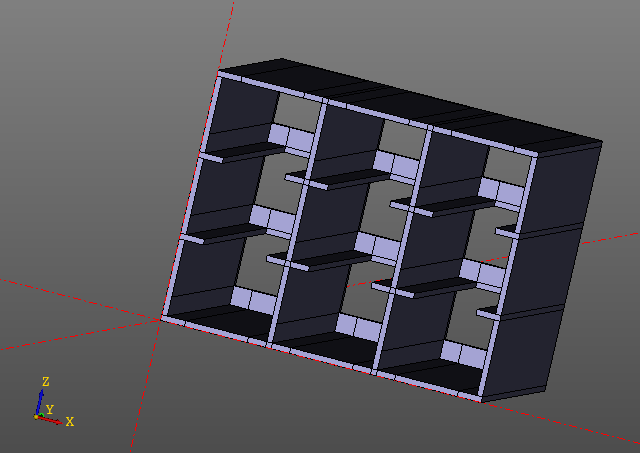
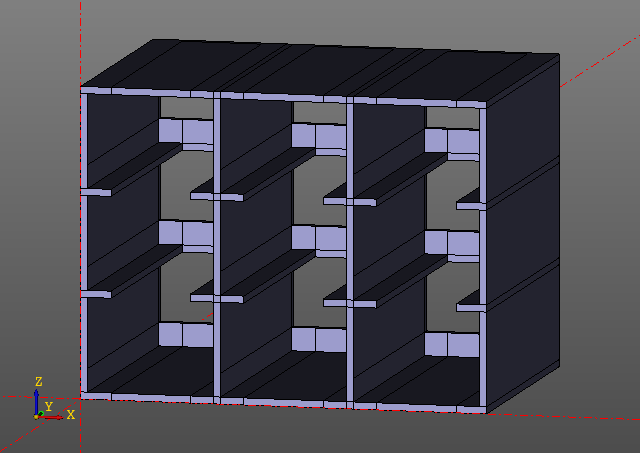
a

diff --git a/docs/_site/texts/prim2d.html b/docs/_site/texts/prim2d.html
@@ -126,7 +126,27 @@
 			
 			<article>
 				<link rel="stylesheet" href="/zencad/css/main.css">
-				<h1 id="section">2д примитивы.</h1>
+				<h1 id="section">2д Примитивы.</h1>
+
+<h2 id="circle">Circle</h2>
+
+<figure class="highlight"><pre><code class="language-python" data-lang="python"><span class="n">circle</span><span class="p">(</span><span class="n">r</span> <span class="o">=</span> <span class="n">radius</span><span class="p">)</span></code></pre></figure>
+
+<p>Example:</p>
+
+<figure class="highlight"><pre><code class="language-python" data-lang="python"><span class="n">zencad</span><span class="o">.</span><span class="n">circle</span><span class="p">(</span><span class="n">r</span> <span class="o">=</span> <span class="mi">10</span><span class="p">)</span></code></pre></figure>
+
+<p><img src="../images/circle.png" alt="box.png" /></p>
+
+<h2 id="ngon">Ngon</h2>
+
+<figure class="highlight"><pre><code class="language-python" data-lang="python"><span class="n">ngon</span><span class="p">(</span><span class="n">r</span> <span class="o">=</span> <span class="n">radius</span><span class="p">,</span> <span class="n">n</span> <span class="o">=</span> <span class="n">nums</span><span class="p">)</span></code></pre></figure>
+
+<p>Example:</p>
+
+<figure class="highlight"><pre><code class="language-python" data-lang="python"><span class="n">zencad</span><span class="o">.</span><span class="n">ngon</span><span class="p">(</span><span class="n">r</span> <span class="o">=</span> <span class="mi">10</span><span class="p">,</span> <span class="n">n</span> <span class="o">=</span> <span class="mi">6</span><span class="p">)</span></code></pre></figure>
+
+<p><img src="../images/ngon.png" alt="box.png" /></p>
 
 			</article>
 			

diff --git a/docs/_site/texts/prim3d.html b/docs/_site/texts/prim3d.html
@@ -126,7 +126,7 @@
 			
 			<article>
 				<link rel="stylesheet" href="/zencad/css/main.css">
-				<h1 id="csg-">CSG Примитивы</h1>
+				<h1 id="d-">3d Примитивы</h1>
 
 <h2 id="box">Box</h2>
 

diff --git a/src/zencad/DisplayWidget.cpp b/src/zencad/DisplayWidget.cpp
@@ -73,7 +73,8 @@ void DisplayWidget::paintEvent(QPaintEvent* e) {
             anAisBox2->SetColor(Quantity_NOC_BLACK);
             anAisBox2->SetDisplayMode(AIS_WireFrame);  
             getContext()->Display(anAisBox2, false);
-            m_view->FitAll (0.5, false);
+
+            autoscale();
         }
 
         getContext()->Display(new AIS_Axis(new Geom_Axis1Placement(gp_Pnt(0,0,0), gp_Vec(1,0,0))));
@@ -82,6 +83,11 @@ void DisplayWidget::paintEvent(QPaintEvent* e) {
     }
 
     m_view->Redraw();
+}
+
+void DisplayWidget::autoscale() {
+    gxx::println("autoscale emitted");
+    m_view->FitAll (0.5, false);
 }
 
 void DisplayWidget::resizeEvent(QResizeEvent* e) {
@@ -205,7 +211,7 @@ void DisplayWidget::onMouseWheel( const int theFlags, const int theDelta, const 
 
 void DisplayWidget::onLButtonDown( const int theFlags, const QPoint thePoint ) {
     Q_UNUSED(theFlags);
-    m_view->StartRotation(thePoint.x(), thePoint.y());
+    m_view->StartRotation(thePoint.x(), thePoint.y(), 1);
     temporary1 = thePoint;
 }
 
@@ -233,8 +239,10 @@ void DisplayWidget::onMouseMove( const int theFlags, const QPoint thePoint ) {
     QPoint mv = thePoint - temporary1; 
     temporary1 = thePoint;
 
+    //m_view->SetAxis(0, 0, 0, 0, 0, 1);
+
     if (theFlags & Qt::LeftButton) {
-        m_view->Rotation(thePoint.x(), thePoint.y());
+    //    m_view->Rotation(thePoint.x(), thePoint.y());
     //    quat_orient.self_small_rotate1(thePoint.x() * 0.0001);
     //    quat_orient.self_small_rotate3(thePoint.y() * 0.0001);
     
@@ -253,15 +261,15 @@ void DisplayWidget::onMouseMove( const int theFlags, const QPoint thePoint ) {
     //Quantity_Parameter Vz;
     //m_view->Proj(Vx,Vy,Vz);
     //gxx::println(quat_orient);
-
+//
     //double mod = sqrt(quat_orient.q1*quat_orient.q1 + quat_orient.q2*quat_orient.q2 + quat_orient.q3*quat_orient.q3);
     //Vx = quat_orient.q1 / mod;
     //Vy = quat_orient.q2 / mod;
     //Vz = quat_orient.q3 / mod;
-
+//
     //malgo::vector3<double> vect = quat_orient * malgo::vector3<double>(0,1,0);
-
-    //m_view->SetProj(cos(psi) * cos(phi), cos(psi) * sin(phi), sin(psi));
+//
+    m_view->SetProj(cos(psi) * cos(phi), cos(psi) * sin(phi), sin(psi));
     //m_view->Proj(Vx,Vy,Vz);
     //gxx::println(Vx,Vy,Vz);
 }

diff --git a/src/zencad/ZenWidget.cpp b/src/zencad/ZenWidget.cpp
@@ -43,6 +43,10 @@ void ZenWidget::createActions() {
     mAboutAction = new QAction(tr("About"), this);
     mAboutAction->setStatusTip(tr("About the application"));
     connect(mAboutAction, SIGNAL(triggered()), this, SLOT(about()));
+
+    mAutoscale = new QAction(tr("Autoscale"), this);
+    mAutoscale->setStatusTip(tr("Autoscale"));
+    connect(mAutoscale, SIGNAL(triggered()), display, SLOT(autoscale()));
 }
 
 void ZenWidget::createMenus() {
@@ -51,6 +55,9 @@ void ZenWidget::createMenus() {
     mFileMenu->addAction(mScreen);
     mFileMenu->addSeparator();
     mFileMenu->addAction(mExitAction);
+
+    mNavigationMenu = menuBar()->addMenu(tr("&Navigation"));
+    mNavigationMenu->addAction(mAutoscale);
 
     mHelpMenu = menuBar()->addMenu(tr("&Help"));
     mHelpMenu->addAction(mAboutAction);

diff --git a/src/zencad/ZenWidget.h b/src/zencad/ZenWidget.h
@@ -16,11 +16,15 @@ class ZenWidget : public QMainWindow {
     //! show the about info action.
     QAction* mAboutAction;
 
+
+    QAction* mAutoscale;
+
     //! the menus of the application.
     QMenu* mFileMenu;
     //QMenu* mViewMenu;
     //QMenu* mPrimitiveMenu;
     //QMenu* mModelingMenu;
+    QMenu* mNavigationMenu;
     QMenu* mHelpMenu;
 
     //! the toolbars of the application.

diff --git a/src/zencad/DisplayWidget.h b/src/zencad/DisplayWidget.h
@@ -68,6 +68,9 @@ public:
 
 public:
     const Handle_AIS_InteractiveContext& getContext() const;
+
+public slots:
+    void autoscale();
 };
 
 #endif

diff --git a/docs/texts/prim2d.md b/docs/texts/prim2d.md
@@ -2,4 +2,26 @@
 layout : default
 ---
 
-# 2д примитивы.
+# 2д Примитивы.
+
+## Circle
+{% highlight python %}
+circle(r = radius)
+{% endhighlight %}
+
+Example:
+{% highlight python %}
+zencad.circle(r = 10)
+{% endhighlight %}
+![box.png](../images/circle.png)
+
+## Ngon
+{% highlight python %}
+ngon(r = radius, n = nums)
+{% endhighlight %}
+
+Example:
+{% highlight python %}
+zencad.ngon(r = 10, n = 6)
+{% endhighlight %}
+![box.png](../images/ngon.png)

diff --git a/docs/texts/prim3d.md b/docs/texts/prim3d.md
@@ -2,7 +2,7 @@
 layout : default
 ---
 
-# CSG Примитивы
+# 3d Примитивы
 
 ## Box  
 {% highlight python %}
